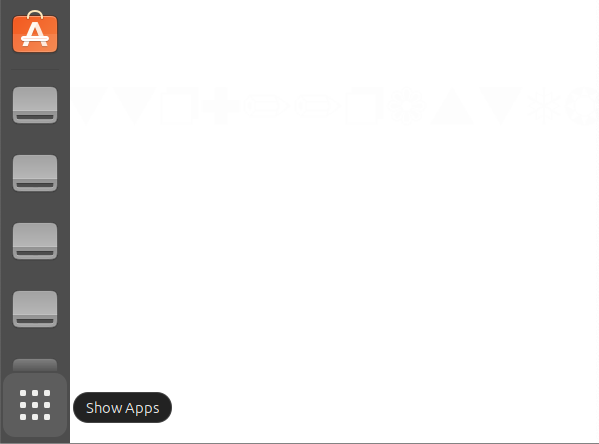
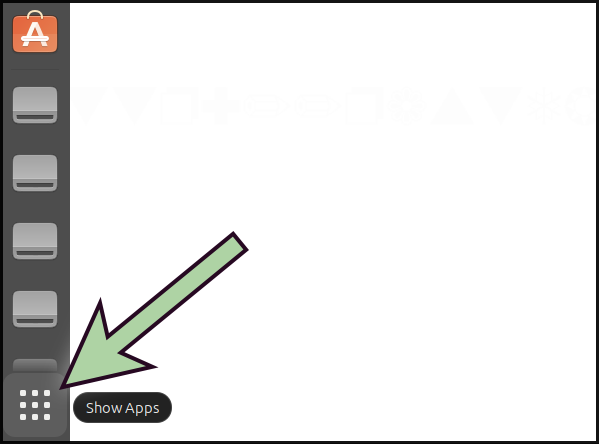
Still writing

Changed region(s): [[0.0, 0.0, 1.0, 1.0], [0.0902, 0.527, 0.4207, 0.8784]]

diff --git a/README.md b/README.md
@@ -12,6 +12,8 @@ We'll also use **IDLE**, a program that lets you write and run Python code.
 
 At the Iffy Books computer lab we're using the Linux-based operating system **Ubuntu**. If you're getting started on your home computer, skip ahead to the section titled **<u>Using Python Turtle at Home</u>**. Once **Python 3**, **IDLE**, and **Tkinter** are installed, you can resume here.
 
+## ➡ Open IDLE
+
 ❏ Start by opening the **terminal** application. Click the grid icon at the bottom left corner of the screen and search for "terminal," or click the terminal icon in the application bar.
 
 ![](images/2023-08-24-22-08-25-image.png)
@@ -22,7 +24,11 @@ At the Iffy Books computer lab we're using the Linux-based operating system **Ub
 idle
 ```
 
-If you're using macOS, you may need to use the command `idle3`instead.
+↳ If you're using macOS, you may need to use the command `idle3`instead.
+
+[Image of IDLE open]
+
+## ➡ First Steps
 
 ❏ In the Idle command prompt, type the following command and press **enter**. Nothing will happen, which is normal. You've just imported a collection of tools from the `turtle` module.
 
@@ -48,21 +54,61 @@ forward(100)
 left(90)
 ```
 
+❏ Now make it walk forward another 100 steps:
+
+```
+forward(100)
+```
+
 ❏ If you want to reset everything and go back to the beginning, you can use `reset()`.
 
 ```
 reset()
 ```
 
-### Mini challenge 1:
+### 🐢 Mini challenge 1
 
-Draw a square
+**❏ *Draw a square.***
 
-### Mini challenge 2:
+### 🐢 Mini challenge 2
 
-Draw an equilateral triangle (same length on all three sides)
+**❏ *Draw an equilateral triangle (all three sides the same length).***
 
-❏
+If you're at an in-person workshop and you need help, try asking the person next to you.
+
+
+
+## ➡ Pen Up and Pen Down
+
+
+
+```
+penup()
+```
+
+
+
+```
+pendown()
+```
+
+
+
+
+
+### 🐢 Mini challenge 3
+
+Make a robot face.
+
+
+
+## ➡ Pen Up and Pen Down
+
+
+
+
+
+
 
 ## Notes
 
